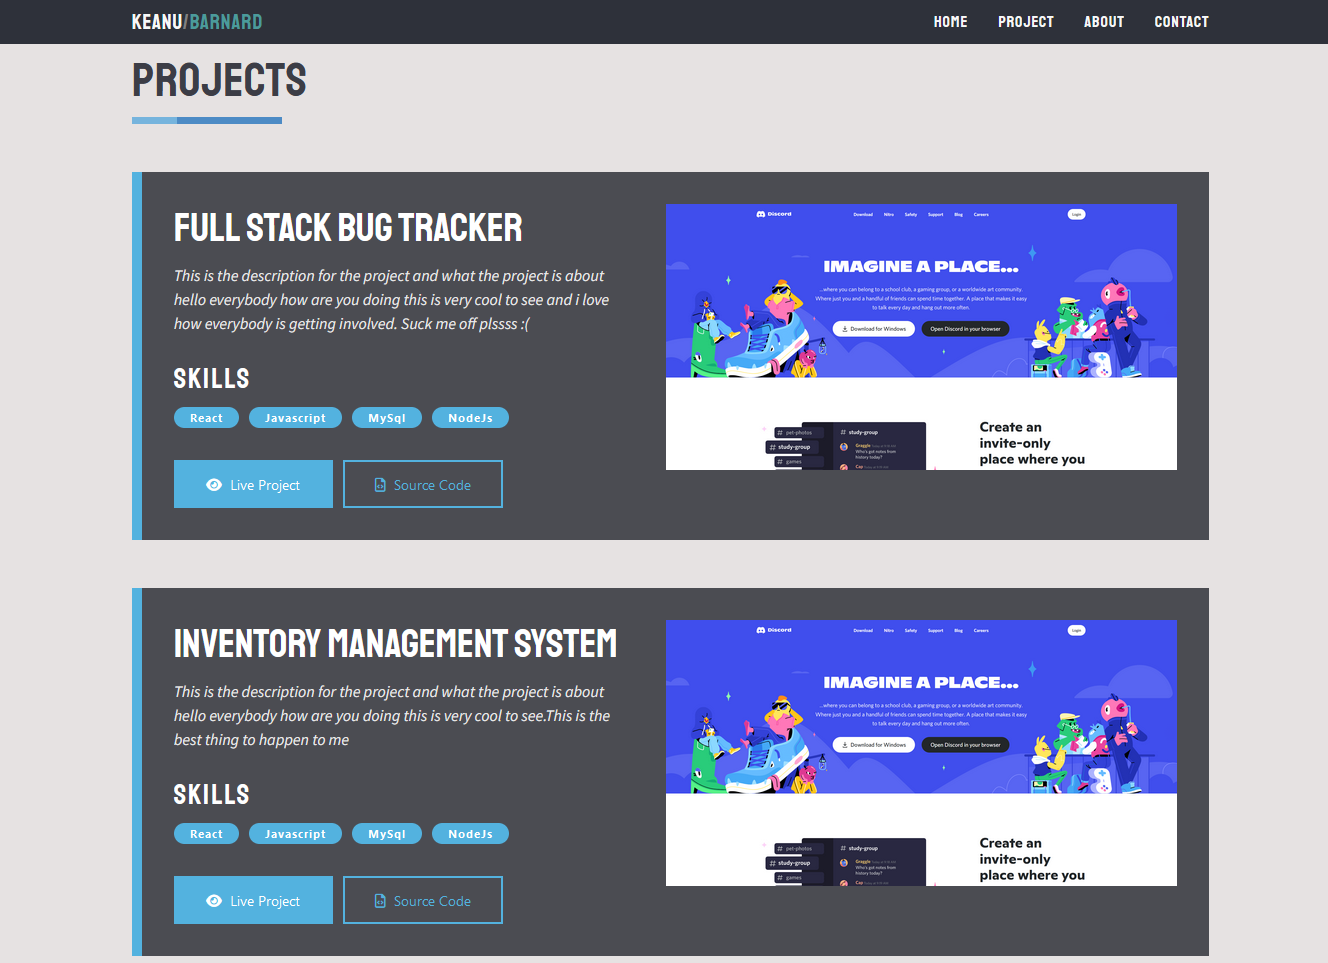
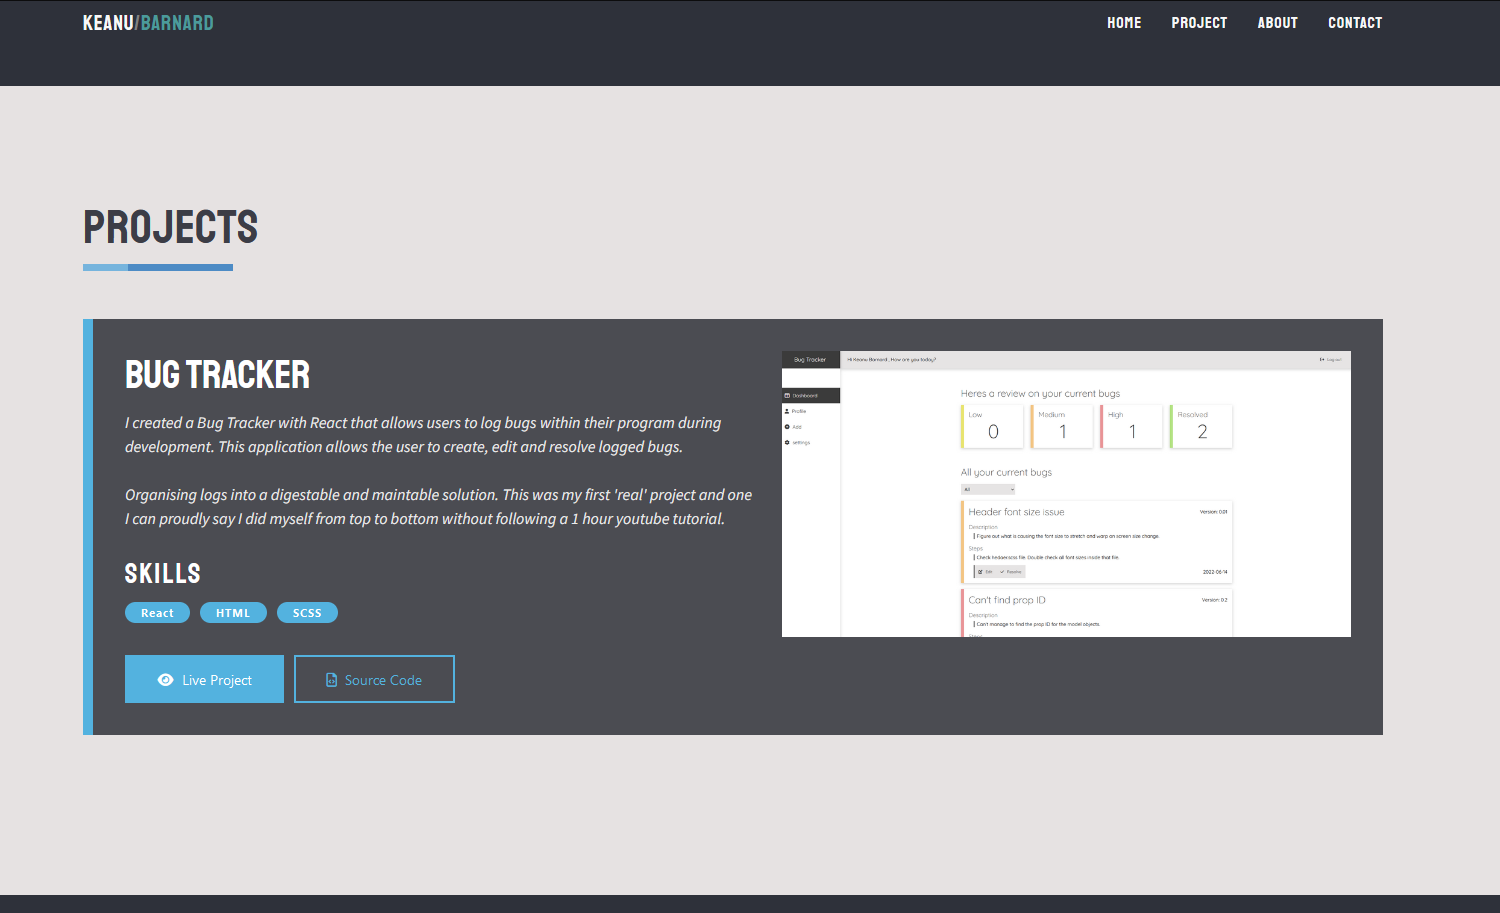
Update 0.1
Added Bug Tracker Application to projects section.

diff --git a/portfolio/src/Components/Projects/Projects.jsx b/portfolio/src/Components/Projects/Projects.jsx
@@ -2,12 +2,13 @@ import React, { useEffect } from "react";
 
 // Import Components
 import ProjectItem from "../ProjectItem/ProjectItem";
+import Skill from "../ProjectItem/Skill/Skill";
 import "./Projects.scss";
 import Aos from "aos";
 import "aos/dist/aos.css";
 
 // Import Images from Project 1
-import exampleImg from "./Project_Images/example1.PNG";
+import bugTrackerImg from "./Project_Images/bug-tracker.PNG";
 
 export default function Projects() {
   useEffect(() => {
@@ -15,30 +16,37 @@ export default function Projects() {
   }, []);
   return (
     <div id="projects" className="projects-section container-w">
-      <h1  data-aos="fade-up" className="section-header">
+      <h1 data-aos="fade-up" className="section-header">
         Projects
       </h1>
       <div data-aos="fade-up" className="header-underline"></div>
       <ProjectItem
-        title={"Full Stack Bug Tracker"}
+        title={"Bug Tracker"}
         animationType={"fade-right"}
         description={
-          "This is the description for the project and what the project is about hello everybody how are you doing this is very cool to see and i love how everybody is getting involved. Suck me off plssss :( "
+          <span>
+            I created a Bug Tracker with React that allows users to log bugs within their program
+            during development. This application allows the user to create, edit and resolve logged
+            bugs. <br /> <br /> Organising logs into a digestable and maintable solution. This was
+            my first 'real' project and one I can proudly say I did myself from top to bottom
+            without following a 1 hour youtube tutorial.
+          </span>
         }
-        img1={exampleImg}
-        demoLink={"www.instagram.com"}
-        sourceCodeLink={"www.facebook.com"}
-      />
-      <ProjectItem
-        title={"Inventory Management System"}
-        animationType={"fade-left"}
-        description={
-          "This is the description for the project and what the project is about hello everybody how are you doing this is very cool to see.This is the best thing to happen to me "
+        img1={bugTrackerImg}
+        demoLink={"https://keanubarnardd.github.io/Bug-Tracker-Final/"}
+        sourceCodeLink={"https://github.com/KeanuBarnardd/Bug-Tracker-Final"}
+        skillsList={
+          <>
+            <Skill text={"React "} />
+            <Skill text={"HTML "} />
+            <Skill text={"SCSS"} />
+          </>
         }
-        img1={exampleImg}
-        demoLink={"www.instagram.com"}
-        sourceCodeLink={"www.facebook.com"}
       />
     </div>
   );
 }
+
+/*
+I created a Bug Tracker with React that allows users to log bugs within their program during development. This application allows the user to create, edit and resolve logged bugs. Organising logs into a digestable and maintable solution. This was my first 'real' project and one I can proudly say I did myself from top to bottom. That wasn't just a follow along Youtube tutorial.
+*/

diff --git a/portfolio/src/Components/ProjectItem/ProjectItem.jsx b/portfolio/src/Components/ProjectItem/ProjectItem.jsx
@@ -1,4 +1,4 @@
-import React,{useEffect} from "react";
+import React, { useEffect } from "react";
 
 //Import Components
 import ImageSlider from "../ImageSlider/ImageSlider";
@@ -9,6 +9,7 @@ export default function ProjectItem(props) {
   useEffect(() => {
     Aos.init({ duration: 2000 });
   }, []);
+
   return (
     <div data-aos={props.animationType} className="proj-container">
       <div className="proj-item">
@@ -16,20 +17,7 @@ export default function ProjectItem(props) {
           <h1 className="proj-title">{props.title}</h1>
           <p className="proj-text">{props.description}</p>
           <h3>Skills</h3>
-          <div className="proj-skills">
-            <p className="skill">
-              <span>React</span>
-            </p>
-            <p className="skill">
-              <span>Javascript</span>
-            </p>
-            <p className="skill">
-              <span>MySql</span>
-            </p>
-            <p className="skill">
-              <span>NodeJs</span>
-            </p>
-          </div>
+          <div className="proj-skills">{props.skillsList}</div>
           <div className="proj-btn-container">
             <a href={props.demoLinK} className="project-btn">
               <i className="fa-solid fa-eye"></i>Live Project

diff --git a/portfolio/src/Components/ProjectItem/Skill/Skill.jsx b/portfolio/src/Components/ProjectItem/Skill/Skill.jsx
@@ -1,0 +1,7 @@
+export default function Skill(props) {
+  return (
+    <p className="skill">
+      <span>{props.text}</span>
+    </p>
+  );
+}
